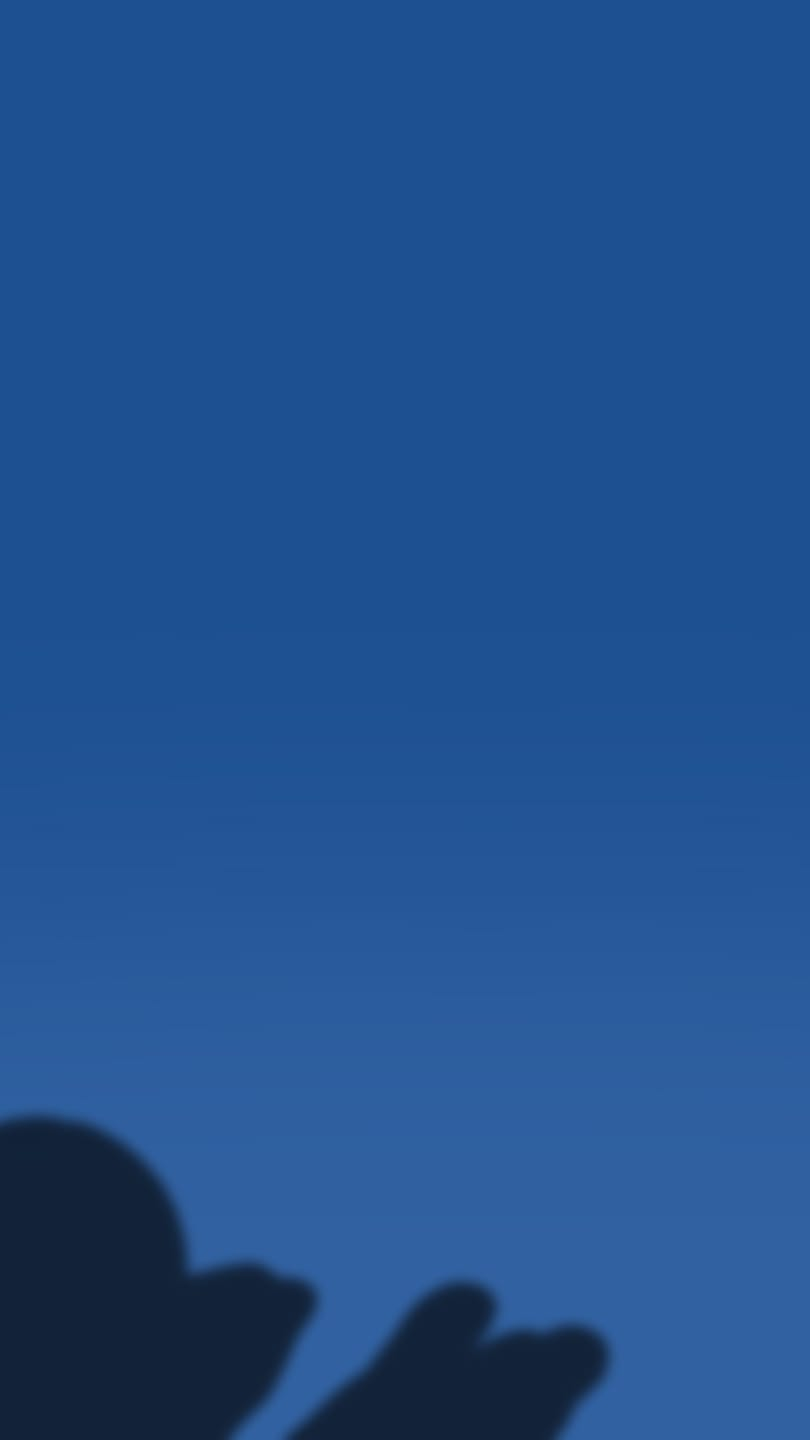
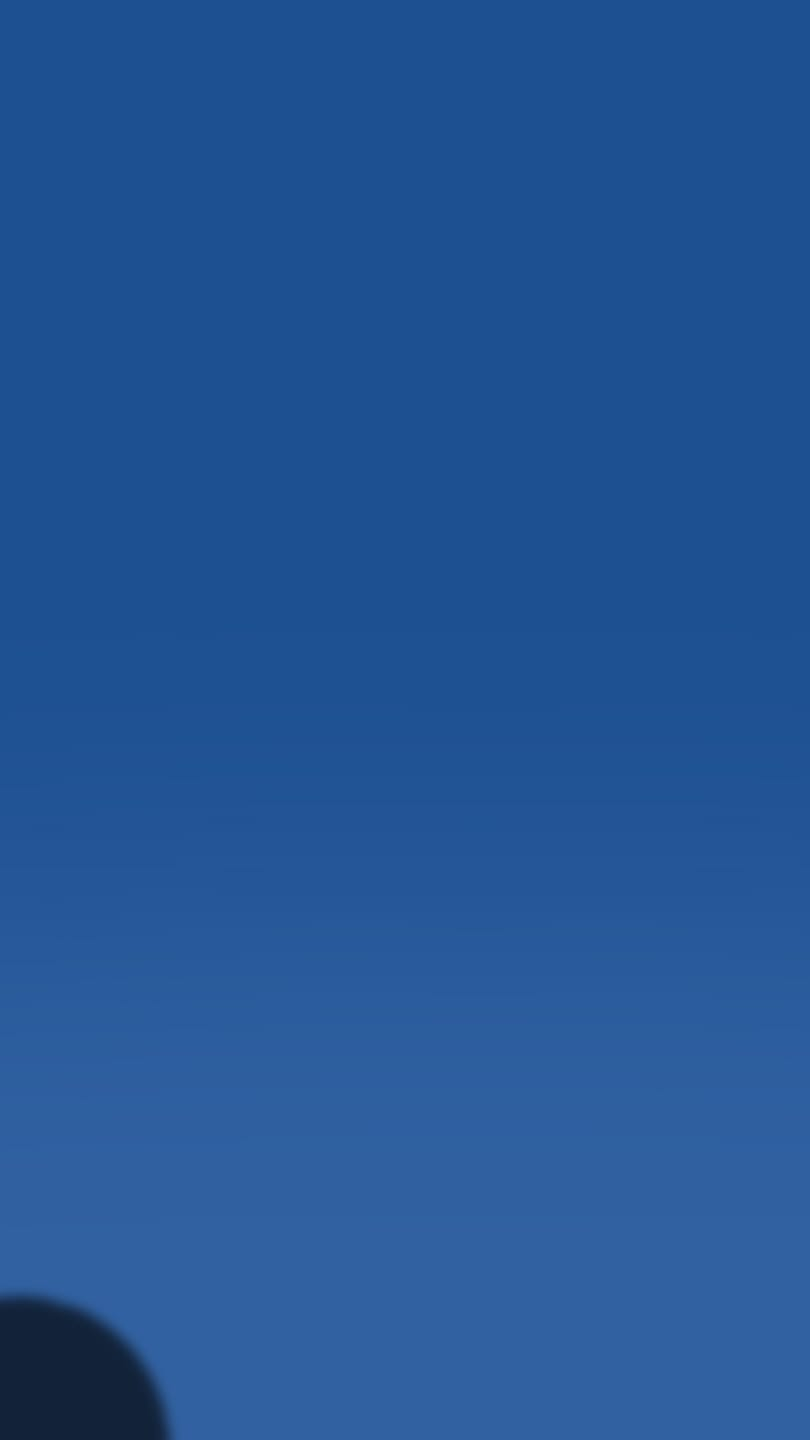
Hero: no blue flash, lower shadow, looping scroll arrow
- The loader only falls back to frames within ±6 of the target; otherwise
  the canvas keeps its current image. Before, a fast scroll (or the first
  paint) could draw any loaded frame, e.g. the plain-sky frame 0.
- The hero gradient stays fully dark until 70% of the scroll (was 45%), so
  the bright sky isn't revealed early.
- The hero opens on frame 10 (shadow tips ~91% down, was frame 18 at ~77%);
  posters regenerated to match.
- "Scroll to explore" arrow nudges down and back on a 1s loop; off under
  prefers-reduced-motion.

Changed region(s): [[0.0, 0.75, 0.7716, 1.0]]

diff --git a/src/lib/scenes.ts b/src/lib/scenes.ts
@@ -33,10 +33,11 @@ export interface Scene {
 }
 
 export const SCENES: Scene[] = [
-  // Design v2: the hero opens on frame 18, where the shadow hand's top edge sits
-  // ~77% down (as placed in Paper), and the copy fades as it rises. This
-  // replaces the separate shadow section.
-  { id: "hero", frames: [18, 55], scroll: 1.8, fadeIn: 0, fadeOut: 0.55 },
+  // Design v2: the hero opens on frame 10, where only the tips of the shadow
+  // hand show (~91% down), and it rises as you scroll. The gradient stays
+  // fully dark until 70% of the way through so the bright sky isn't revealed
+  // early. This replaces the separate shadow section.
+  { id: "hero", frames: [10, 55], scroll: 1.8, fadeIn: 0, fadeOut: 0.3 },
   { id: "freeze", frames: [55, 100], scroll: 1 },
   { id: "tinted", frames: [100, 225], scroll: 1.6 },
   { id: "tinted-product", frames: [225, 300], scroll: 1.2 },

diff --git a/src/components/Stage.tsx b/src/components/Stage.tsx
@@ -20,6 +20,11 @@ const MAX_DPR = 2;
 const EASE = 0.08;
 /** Frames past the hero's scrub that load up front, so the first scroll never waits. */
 const HERO_LOOKAHEAD = 6;
+/**
+ * If the exact frame isn't loaded, draw one at most this far away (±6 frames
+ * ≈ 0.24 s of footage); otherwise keep the current image until it arrives.
+ */
+const FALLBACK_DISTANCE = 6;
 
 const clamp01 = (v: number) => Math.min(1, Math.max(0, v));
 
@@ -134,7 +139,7 @@ export default function Stage() {
 
     const draw = (index: number) => {
       if (!store || !width) return;
-      const i = store.nearest(index);
+      const i = store.nearest(index, FALLBACK_DISTANCE);
       if (i < 0 || i === lastDrawn) return;
       const img = store.frames[i];
       if (!img) return;

diff --git a/src/lib/frameLoader.ts b/src/lib/frameLoader.ts
@@ -95,10 +95,14 @@ export class FrameStore {
     this.pending = near.concat(rest);
   }
 
-  /** Index of the nearest loaded frame to `i`, or -1 if nothing is loaded yet. */
-  nearest(i: number): number {
+  /**
+   * Index of the nearest loaded frame within `maxDistance` of `i`, or -1.
+   * The limit stops a fast scroll from flashing an unrelated shot (e.g. the
+   * plain-sky frame 0); the caller keeps showing its current image instead.
+   */
+  nearest(i: number, maxDistance = this.count): number {
     if (this.frames[i]) return i;
-    for (let d = 1; d < this.count; d++) {
+    for (let d = 1; d <= maxDistance; d++) {
       if (i - d >= 0 && this.frames[i - d]) return i - d;
       if (i + d < this.count && this.frames[i + d]) return i + d;
     }

diff --git a/src/components/Stage.module.css b/src/components/Stage.module.css
@@ -53,6 +53,27 @@
   z-index: 3;
 }
 
+/* Arrow nudges down 6px and back: 0.5s each way, looping. */
+.cue svg {
+  animation: cue-bob 1s ease-in-out infinite;
+}
+
+@keyframes cue-bob {
+  0%,
+  100% {
+    transform: translateY(0);
+  }
+  50% {
+    transform: translateY(6px);
+  }
+}
+
+@media (prefers-reduced-motion: reduce) {
+  .cue svg {
+    animation: none;
+  }
+}
+
 @media (max-width: 767px) {
   .cue {
     display: none;
